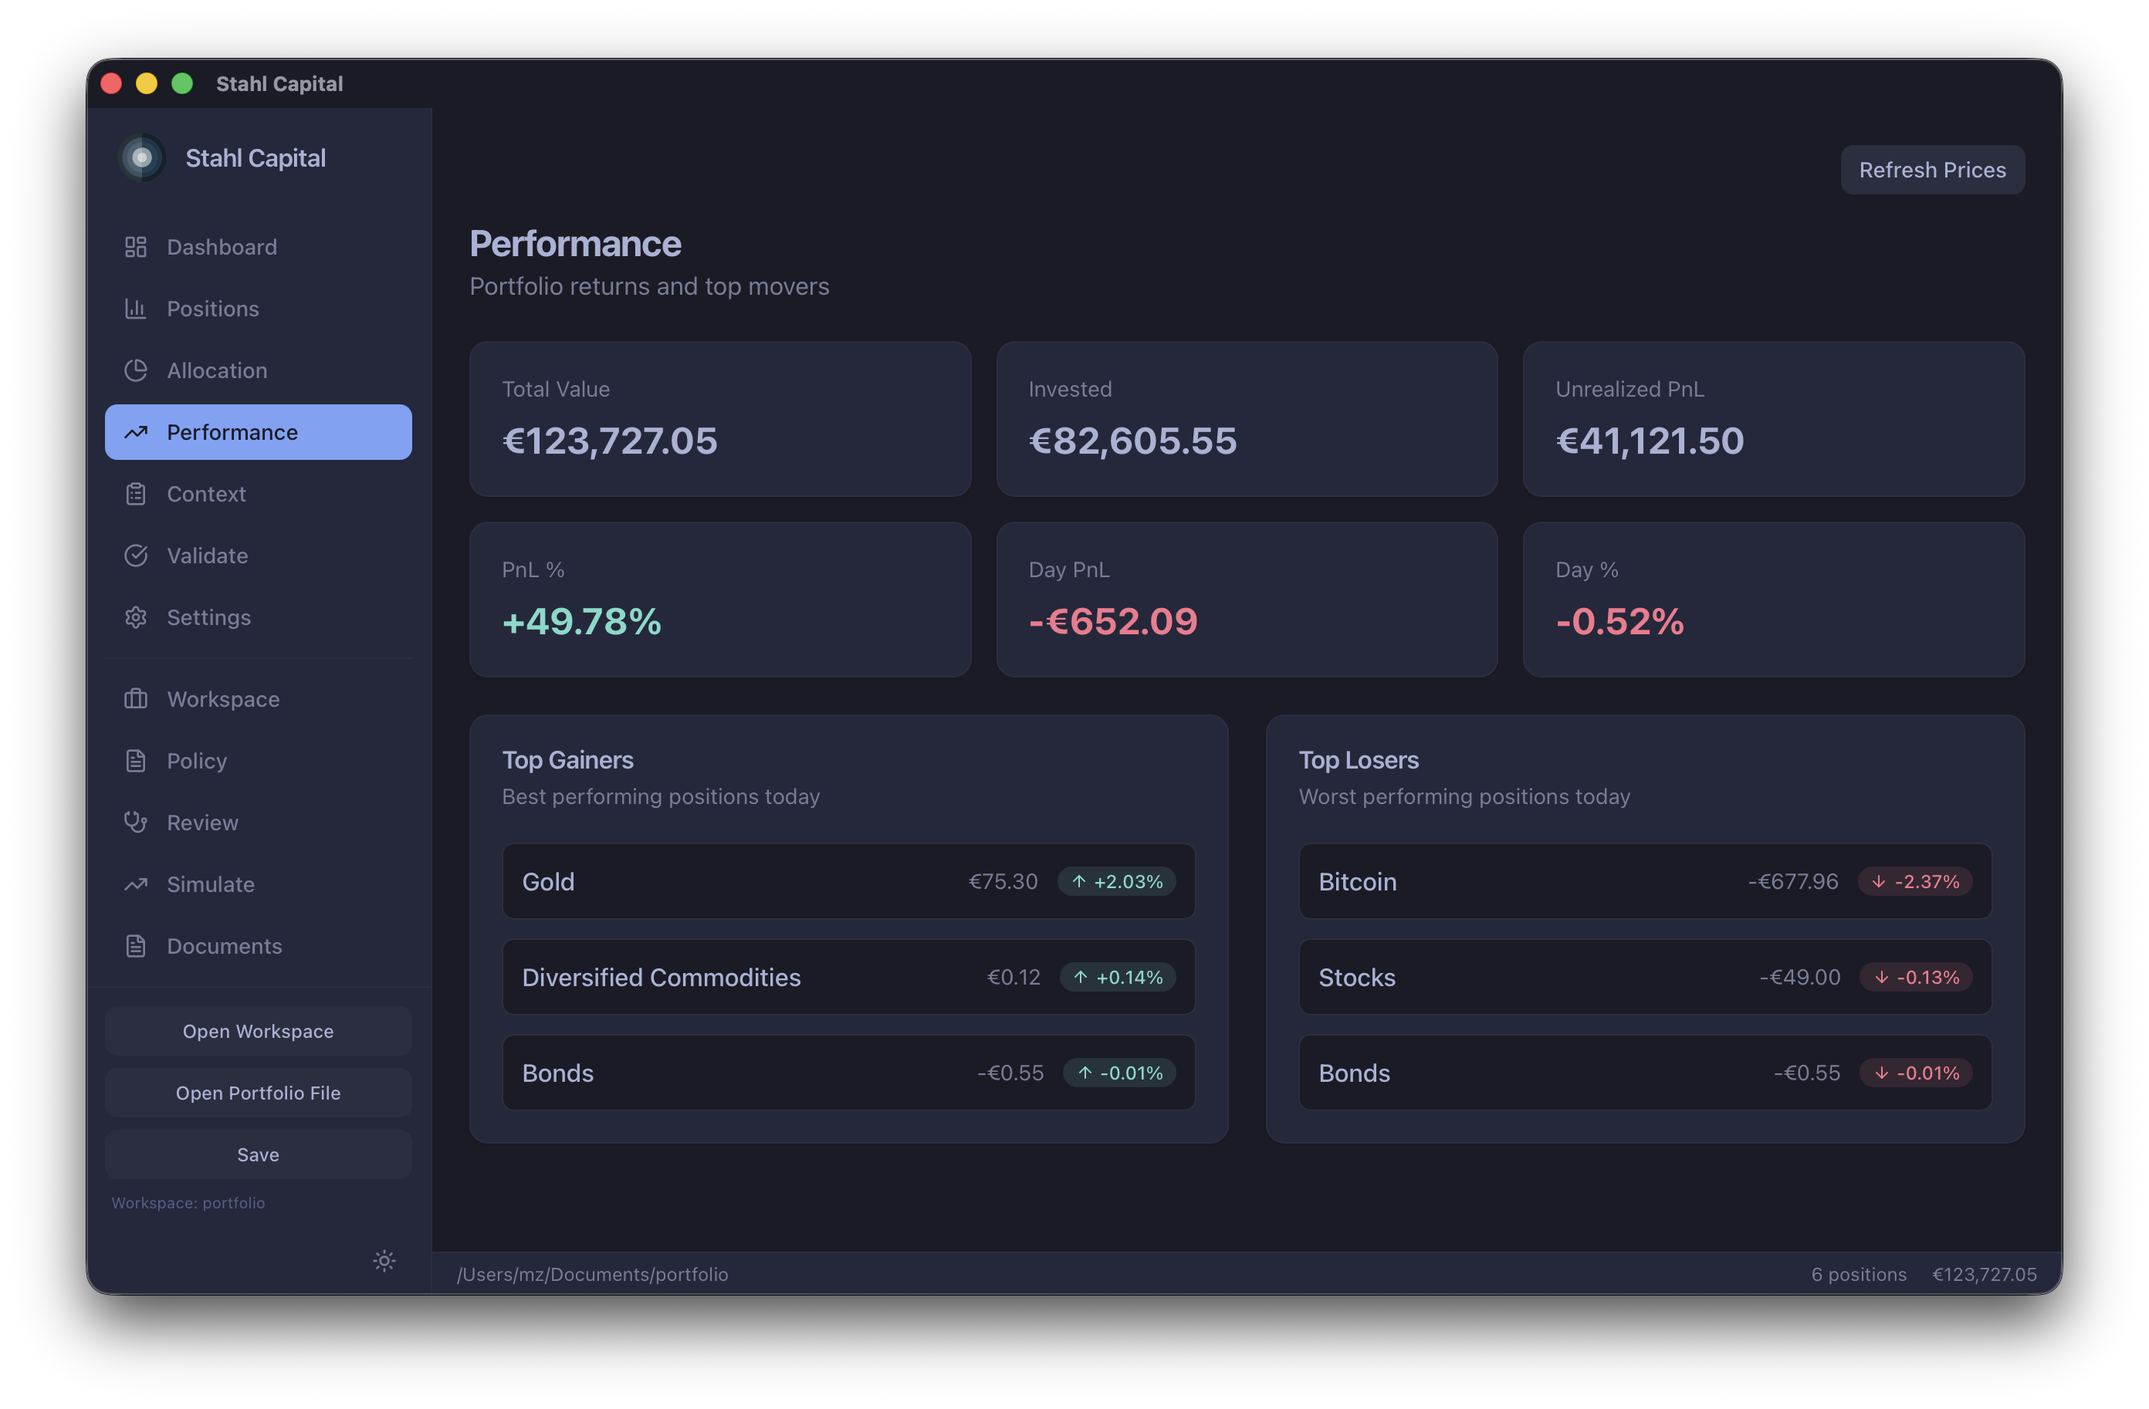
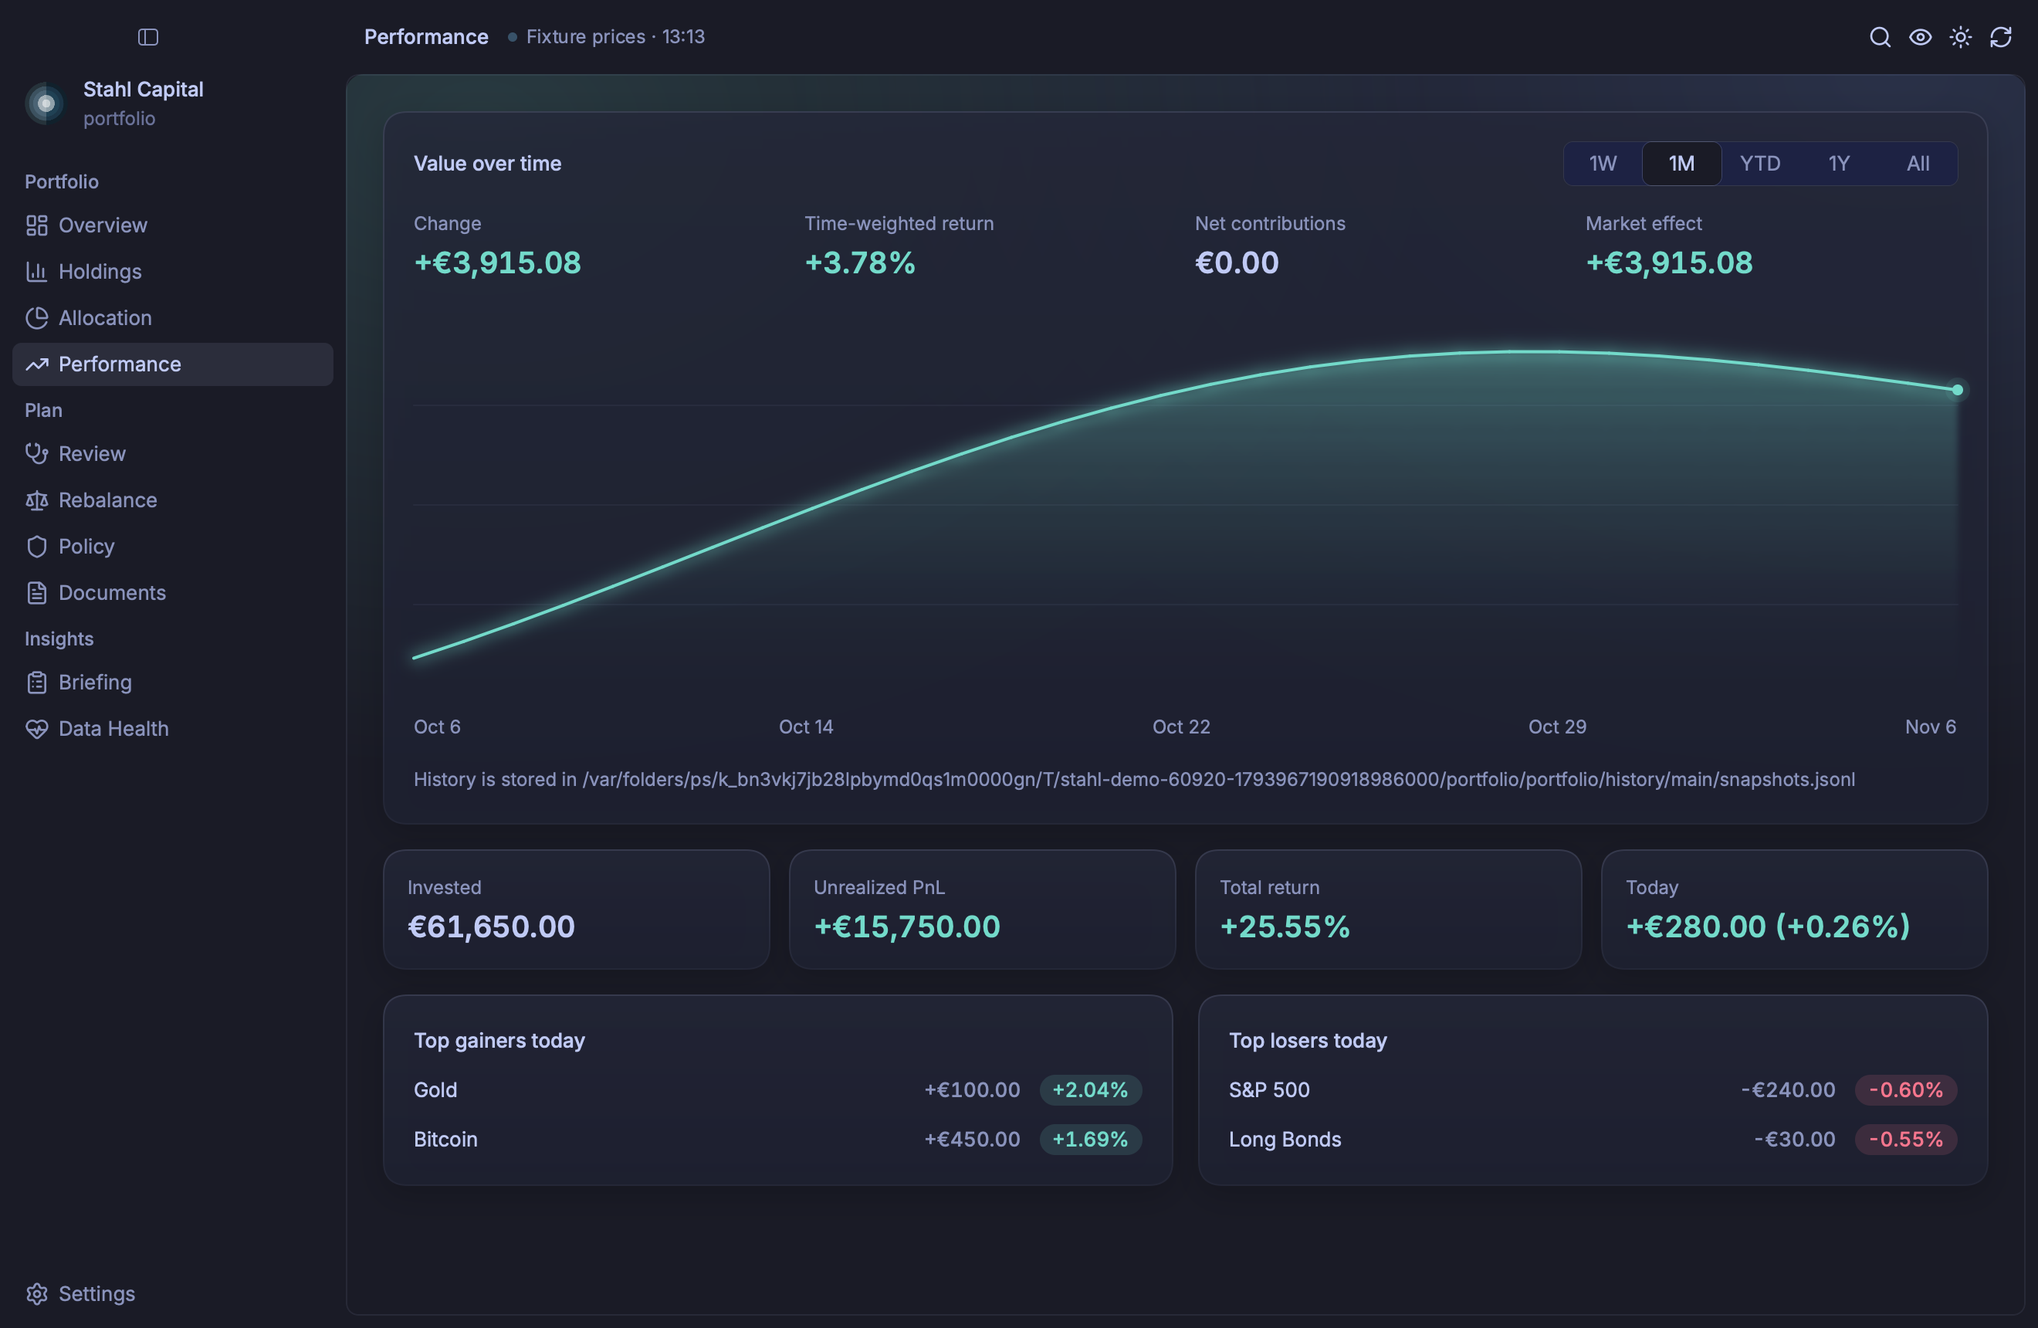
Document the Rune app and refresh its screenshots

diff --git a/README.md b/README.md
@@ -2,29 +2,65 @@
 
 [![CI](https://github.com/MarkusZoppelt/stahl/actions/workflows/ci.yml/badge.svg)](https://github.com/MarkusZoppelt/stahl/actions/workflows/ci.yml)
 
-A local-first desktop GUI for [`portfolio_rs`](https://github.com/MarkusZoppelt/portfolio_rs) — track
-investment portfolios, run policy-aware reviews, simulate rebalancing, and manage a durable finance
-workspace, all from a native app. Built with [Tauri 2](https://tauri.app), React, and TypeScript.
+A local-first, native desktop app for [`portfolio_rs`](https://github.com/MarkusZoppelt/portfolio_rs):
+track investment portfolios, see how they got here, run policy-aware reviews, and simulate
+rebalancing. Your data stays in plain files on your own machine. Built in Rust on
+[Rune](https://github.com/anomalyco/rune), with no web view, for macOS, Linux, and Windows.
 
-![Performance view](screenshots/performance.png)
+![Overview](screenshots/overview.png)
 
-> **Status:** early prototype. Expect rough edges.
+| | |
+|---|---|
+| ![Holdings](screenshots/holdings.png) | ![Allocation](screenshots/allocation.png) |
+| ![Review](screenshots/review.png) | ![Command palette](screenshots/command-palette.png) |
+
+> **Status:** early. Expect rough edges.
 
 ## Features
 
-- **Dashboard** — total value, day change, and PnL at a glance
-- **Positions** — add, edit, and remove holdings with live quotes
-- **Allocation** — asset-class breakdown with drift visualization
-- **Performance** — historical and daily returns, top movers
-- **Context** — agent-friendly portfolio briefing
-- **Validate** — sanity-check a portfolio file
-- **Workspace mode** — for full finance workspaces (`portfolio_rs init-workspace`):
-  - **Policy** — view and edit your machine-readable investment policy
-  - **Review** — policy-aware drift/violation checks
-  - **Simulate** — rebalancing what-if scenarios (never trades)
-  - **Documents** — generate weekly reports and decision records
-- **Settings** — currency, theme, and AI provider configuration
+- **Overview:** total value, today's change, and value over time at a glance, with what needs attention
+- **Holdings:** a sortable, searchable table with a detail pane for cost basis and purchases
+- **Allocation:** the split today, compared with your policy's targets
+- **Performance:** value over time with time-weighted return, separating market moves from money you added
+- **Review** (workspace): drift, constraint checks, data quality, and suggested actions
+- **Rebalance** (workspace): what-if scenarios. It never trades.
+- **Policy** (workspace): your machine-readable investment policy, in an editor with a readable summary
+- **Documents** (workspace): weekly reports and decision records
+- **Briefing:** the summary an advisor would ask for, with Copy as Markdown to hand it to an AI assistant
+- **Data Health:** file validation, data-quality findings, and workspace checks
 
+And it behaves like a desktop app:
+
+- **Command palette** (`⌘K`) that also finds your holdings, and shortcuts for every page (`⌘1`–`⌘0`).
+  Ctrl stands in for `⌘` on Linux and Windows.
+- **Hide amounts** (`⌘⇧H`) before you share your screen
+- **Drop a file or folder** on the window to open it (not yet on Wayland, where Rune gets no drags)
+- **Unsaved changes** show in the title bar, and quitting offers to save them
+- **A broken positions file** shows the line and column at fault. It is never shown as an empty portfolio, and never overwritten.
+- **Price freshness** in the toolbar: live, stale, partial, or offline
+- **Motion that means something:** digits roll when a price changes, the hero flashes when new
+  prices land, charts draw themselves in and read out the value under the pointer, and rows fly
+  between Overview and the page they belong to. All of it respects the system's reduced-motion
+  setting.
+- **Figures you can read at a glance:** one colour per asset class on every page, your policy's
+  targets as an outer ring around the allocation donut, each holding's weight along its row, a gauge
+  for how much of the portfolio sits within policy, and today against afterwards for a rebalance.
+- **Prices catch up** when you come back to the app after 15 minutes away
+- Light and dark themes, and system file panels. On macOS, native menus, context menus, a Dock
+  menu, and saved reports you can drag out to Finder or Mail.
+
+### History
+
+To chart your portfolio over time, Stahl records one valuation per day when it opens a portfolio or
+refreshes prices, if every position has a price. It uses the same files as `portfolio_rs snapshot`,
+so both add to one history:
+
+- in a workspace, `portfolio/history/main/snapshots.jsonl`
+- otherwise, `$XDG_DATA_HOME/portfolio_rs/main/snapshots.jsonl` (or under `~/.local/share`)
+- anywhere you like, with `PORTFOLIO_RS_DATA_DIR`
+
+Encrypted (`.gpg`) portfolios are never recorded, because that would put their values on disk in
+plaintext.
 
 ## Run
 
@@ -32,13 +68,15 @@ workspace, all from a native app. Built with [Tauri 2](https://tauri.app), React
 nix run github:MarkusZoppelt/stahl
 ```
 
+Pass a positions file to open it: `stahl positions.json`.
+
 ## Install
 
 ```sh
 nix profile install github:MarkusZoppelt/stahl
 ```
 
-Native installers (`.dmg`, `.deb`/`.AppImage`, `.msi`) are attached to
+Installers (`.dmg`, `.deb`, and a Windows `.zip`) are attached to
 [GitHub Releases](https://github.com/MarkusZoppelt/stahl/releases).
 
 ## Building
@@ -48,69 +86,67 @@ Native installers (`.dmg`, `.deb`/`.AppImage`, `.msi`) are attached to
 ```sh
 nix build .#stahl      # ./result/bin/stahl
 nix run .#stahl        # build + run
-nix develop            # cargo, pnpm, cargo-tauri, rust-analyzer, …
-cargo tauri dev
+nix develop            # the pinned Rust toolchain and everything else
+cargo run
 ```
-
-> If `cargo tauri dev` fails with a `dyld`/`libiconv` error, you likely have a stale
-> `cargo-tauri` binary in `~/.cargo/bin` (installed via `cargo install tauri-cli`) that shadows
-> the one provided by the dev shell. Either remove it, or invoke `cargo-tauri dev` directly
-> (skipping cargo's subcommand resolution, which always prefers `$CARGO_HOME/bin`).
 
 ### Without Nix
 
-Requires Rust (stable), Node.js, [pnpm](https://pnpm.io), and the platform prerequisites for
-[Tauri 2](https://v2.tauri.app/start/prerequisites/) (WebKitGTK + GTK3 on Linux; Xcode command line
-tools on macOS).
+Requires [rustup](https://rustup.rs), which picks up the toolchain pinned in `rust-toolchain.toml`.
+On Linux you also need the development packages for xkbcommon and Wayland
+(`libxkbcommon-dev libwayland-dev` on Debian and Ubuntu), and `libxkbcommon-x11-0` plus a Vulkan
+driver to run it. On macOS the Xcode command line tools are enough.
 
 ```sh
-pnpm --dir frontend install
-cargo install tauri-cli --version "^2"
-cd src-tauri
-cargo tauri dev     # development
-cargo tauri build   # release bundle
+cargo run
 ```
 
 ## Development
 
-Frontend linting and formatting use [Oxlint](https://oxc.rs/docs/guide/usage/linter.html) and
-[Oxfmt](https://oxc.rs/docs/guide/usage/formatter.html) — fast, Rust-based drop-ins for ESLint and
-Prettier:
-
 ```sh
-pnpm --dir frontend lint        # oxlint
-pnpm --dir frontend fmt         # oxfmt (writes)
-pnpm --dir frontend fmt:check   # oxfmt --check
+cargo test
+cargo run --example demo                                        # a made-up portfolio, no network
+cargo run --example demo -- --list-scenes
+cargo run --example demo -- --snap out.png --scene holdings --at 2   # any screen, no window
 ```
 
-`nix flake check` runs the full suite in one shot: the release build, `cargo clippy --deny warnings`,
-`cargo fmt --check`, and the frontend lint/format/typecheck. `nix fmt` formats the Nix code itself
-(via [Alejandra](https://github.com/kamadorueda/alejandra)). CI (`.github/workflows/ci.yml`) runs
-`nix flake check` on Linux and macOS for every push and pull request.
+`tests/e2e.rs` drives the real views and handlers in Rune's headless runtime, with clicks, keys and
+shortcuts, on real `portfolio_rs` data and fixture quotes. To try the app itself without the
+network, set `PORTFOLIO_RS_QUOTES=offline` or `fixture:<path>`.
+
+`nix flake check` runs the release build, `cargo clippy --deny warnings`, `cargo fmt --check`, and
+all the tests. `nix fmt` formats the Nix code. CI (`.github/workflows/ci.yml`) runs it on Linux and
+macOS for every push and pull request. It also runs clippy and the tests with plain cargo on Linux,
+macOS, and Windows, renders the screens with the real renderer (the images are attached to the run),
+and opens a real window.
 
 ## Releases
 
-Pushing a tag matching `v*` (e.g. `v0.1.0`) triggers `.github/workflows/release.yml`, which builds
-native installers with [`tauri-action`](https://github.com/tauri-apps/tauri-action) — macOS (Apple
-Silicon) `.dmg`/`.app`, Linux `.deb`/`.AppImage`, and Windows `.msi`/`.exe` — and attaches them to a
-draft GitHub Release. This is a separate, non-Nix pipeline: `nix build` produces binaries dynamically
-linked against `/nix/store` paths (fine for machines with Nix, not for end-user distribution), so
-releases are built with each OS's native toolchain instead, the same way as the "Without Nix" section
-above. macOS builds are ad-hoc signed (`signingIdentity: "-"` in `tauri.conf.json`) since there's no
-Apple Developer certificate configured; users will still need to right-click → Open (or clear the
-quarantine attribute) on first launch.
+Pushing a tag matching `v*` (e.g. `v0.3.0`) triggers `.github/workflows/release.yml`, which builds
+installers with each OS's native toolchain and attaches them to a draft GitHub Release. This is
+separate from Nix: `nix build` produces binaries linked against `/nix/store` paths, which is fine for
+machines with Nix but not for distribution. macOS builds are ad-hoc signed, as there is no Apple
+Developer certificate configured, so users need to right-click → Open (or clear the quarantine
+attribute) on first launch.
 
 ## Project structure
 
 ```
-src-tauri/    Rust backend (Tauri commands, AppState wiring, config)
-frontend/     React + TypeScript + Tailwind UI
-flake.nix     Reproducible build for macOS, Linux, and NixOS
+src/backend.rs   The bridge to portfolio_rs, which runs on Tokio beside Rune
+src/state.rs     All state, and everything that changes it
+src/app.rs       Window chrome, menus, and how it starts
+src/view/        Pure functions from state to elements, one module per area
+src/theme.rs     Tokyo Night, dark and light
+src/icons.rs     Lucide icons
+src/demo.rs      The made-up portfolio for the tests and the demo
+examples/demo.rs The demo, and a named scene for every screen
+assets/          App icons
+tests/e2e.rs     End-to-end tests on the real UI
+flake.nix        Reproducible build for macOS, Linux, and NixOS
 ```
 
-The Rust side is a thin layer: `src-tauri/src/commands.rs` exposes `portfolio_rs::state::AppState`
-methods as Tauri commands; almost all domain logic (portfolio math, policy review, simulation,
-reports) lives in the `portfolio_rs` library.
+Almost all domain logic (portfolio math, policy review, simulation, reports) lives in the
+`portfolio_rs` library.
 
 ## License
 

diff --git a/AGENTS.md b/AGENTS.md
@@ -25,8 +25,8 @@ Guidance for AI agents (and humans) working on this repo.
 - If an import is only needed under a `#[cfg(...)]`-gated function or block,
   gate the `use` with the same `#[cfg(...)]` rather than importing it
   unconditionally (which would produce an unused-import warning on other
-  platforms). Example: `main.rs`'s Linux-only `WEBKIT_DISABLE_DMABUF_RENDERER`
-  workaround uses `#[cfg(target_os = "linux")] use std::env;`.
+  platforms). Example: `main.rs`'s Linux-only display check uses
+  `#[cfg(target_os = "linux")] use std::process;`.
 
 - Run `cargo fmt` after adding/moving imports — rustfmt reorders and groups
   `use` statements (including `#[cfg(...)]`-gated ones) and CI enforces this
@@ -35,51 +35,61 @@ Guidance for AI agents (and humans) working on this repo.
 - `cargo clippy --all-targets -- --deny warnings` must be clean (also
   enforced by `nix flake check` → `stahl-clippy`).
 
+## Rune
+
+The UI is [Rune](https://github.com/anomalyco/rune) and `rune-kit`, pinned to one git revision in
+`Cargo.toml`. Rune is pre-release and moves fast, so read the README at the pinned revision rather
+than trusting memory, and expect an update to move its API. Both crates must stay on the same `rev`.
+
+The shape of the app: one `State`, and views that are pure functions of it. Rune re-runs them when
+state changes, so a view must not do work or mutate anything.
+
+Things that are easy to get wrong:
+
+- `portfolio_rs` needs Tokio. Reach the backend through `State::run`: the work runs on Tokio, and its
+  result lands in `poll` on the UI thread. Headless code waits for it with `State::settle`.
+- A row stretches its children by default. Use `row().center_y()` unless you want that.
+- `TextInput` is 280pt wide unless told otherwise, and `TextInput::label` only names it for assistive
+  technology. Use `.width(None)` to fill a column and `ui::field` for a visible label.
+- Write shortcuts with `ui::chord` or `ui::chord_keys`: Rune's command chords are Ctrl off macOS.
+- A window can't refuse to close. `on_close` reopens it to ask about unsaved changes.
+- Native menus, context menus, the Dock menu and `drag_out` are macOS only. Everything they do must
+  also be reachable through a shortcut or the command palette.
+
+## Tests
+
+`tests/e2e.rs` drives the real views and handlers through pointer and key input in Rune's headless
+runtime. It needs no display or GPU, so `nix flake check` runs it. Tests can't judge how a screen
+looks, so render the ones you changed and look at them:
+
+```sh
+cargo run --example demo -- --snap /tmp/x.png --scene holdings --at 2 --size 1320x860
+```
+
+Every screen has a scene in `examples/demo.rs`; add one with each new screen. Regenerate
+`screenshots/` the same way when the UI changes.
+
+Tests must not touch the user's config. `AppState::load_workspace` and
+`load_simple_file` save it to the default location whatever `Backend` was given,
+so tests open portfolios through `Backend::startup`, on a backend from `demo::backend`.
+
+When running the app by hand, use the demo, or isolate it from real data: set `HOME` to a temp
+directory and `PORTFOLIO_RS_QUOTES=offline`. Opening a portfolio records a valuation in its history.
+
 ## Nix flake maintenance
 
-`flake.nix` builds the frontend hermetically via `pkgs.fetchPnpmDeps`, which
-is a fixed-output derivation pinned to `frontendDepsHash`. Any change to
-`frontend/package.json` or `frontend/pnpm-lock.yaml` invalidates that hash.
-Regenerate with:
+`rust-toolchain.toml` is the single Rust version pin, shared by rustup, the
+release workflow, and the flake (through `rust-overlay`, because Rune needs a
+newer compiler than nixpkgs ships). Do not add a second pin.
 
-```sh
-./scripts/update-frontend-deps-hash.sh
-```
-
-Dependabot owns Cargo, frontend npm, and GitHub Actions. A weekly workflow
-updates `flake.lock`. CI runs the hash script on PRs that touch the frontend
-lockfile (including Dependabot) and commits the result.
-
-This hash is the same across `x86_64-linux`, `aarch64-linux`, `x86_64-darwin`,
-and `aarch64-darwin` — `fetchPnpmDeps` fetches every optional dependency
-listed in the lockfile (all os/cpu native-binary variants), not just the ones
-matching the host, so there's no need for a per-system hash.
-
-Do not remove the `pnpmForFetch` (`nodejs-slim_26`) override in `flake.nix`.
-It works around a real, reproducible V8/libc++ ODR-violation bug in
-nixpkgs' default Node 24
-([NixOS/nixpkgs#536039](https://github.com/NixOS/nixpkgs/issues/536039))
-that can hard-kill `pnpm install` mid-fetch under load. Confirmed locally:
-removing the override lets the fd-tracking warnings spam through, and the
-fetch gets `Killed: 9` under load; restoring it fixes it.
-
-## Frontend tooling
-
-Linting/formatting use [Oxlint](https://oxc.rs/docs/guide/usage/linter.html)
-and [Oxfmt](https://oxc.rs/docs/guide/usage/formatter.html), not
-ESLint/Prettier:
-
-```sh
-pnpm --dir frontend lint        # oxlint
-pnpm --dir frontend fmt         # oxfmt (writes)
-pnpm --dir frontend fmt:check   # oxfmt --check
-```
+Dependabot owns Cargo and GitHub Actions. A weekly workflow updates `flake.lock`.
 
 ## CI
 
 `.github/workflows/ci.yml` uses `cachix/install-nix-action` (not
 DeterminateSystems' installer/FlakeHub — keep this on plain, non-proprietary
 Nix tooling) and runs `nix flake check` + `nix build .#stahl` on Linux and
-macOS. It reads from the public `cache.nixos.org` and
-`nix-community.cachix.org` substituters already declared in `flake.nix`'s
+macOS. A second job covers Linux, macOS and Windows with plain cargo, because Nix can't build for
+Windows: clippy, tests, renders of the demo scenes (every one, or four on Windows), and a real window. It reads from the public
+`cache.nixos.org` and `nix-community.cachix.org` substituters already declared in `flake.nix`'s
 `nixConfig`; there is no project-specific push cache configured.
